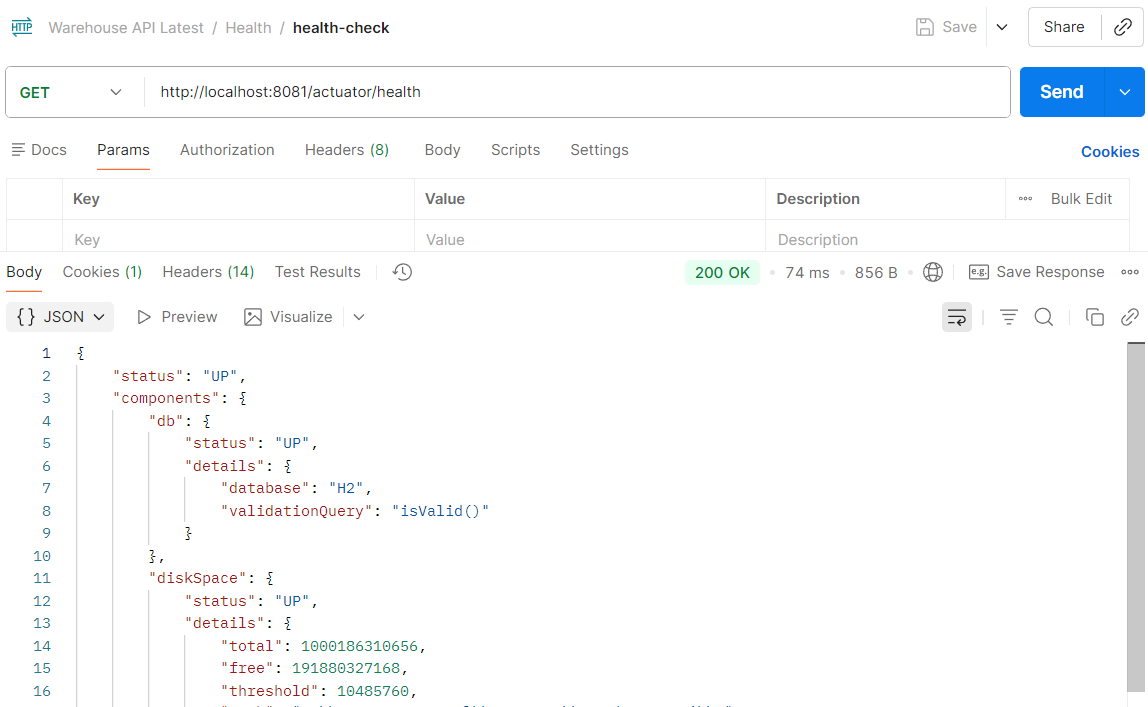
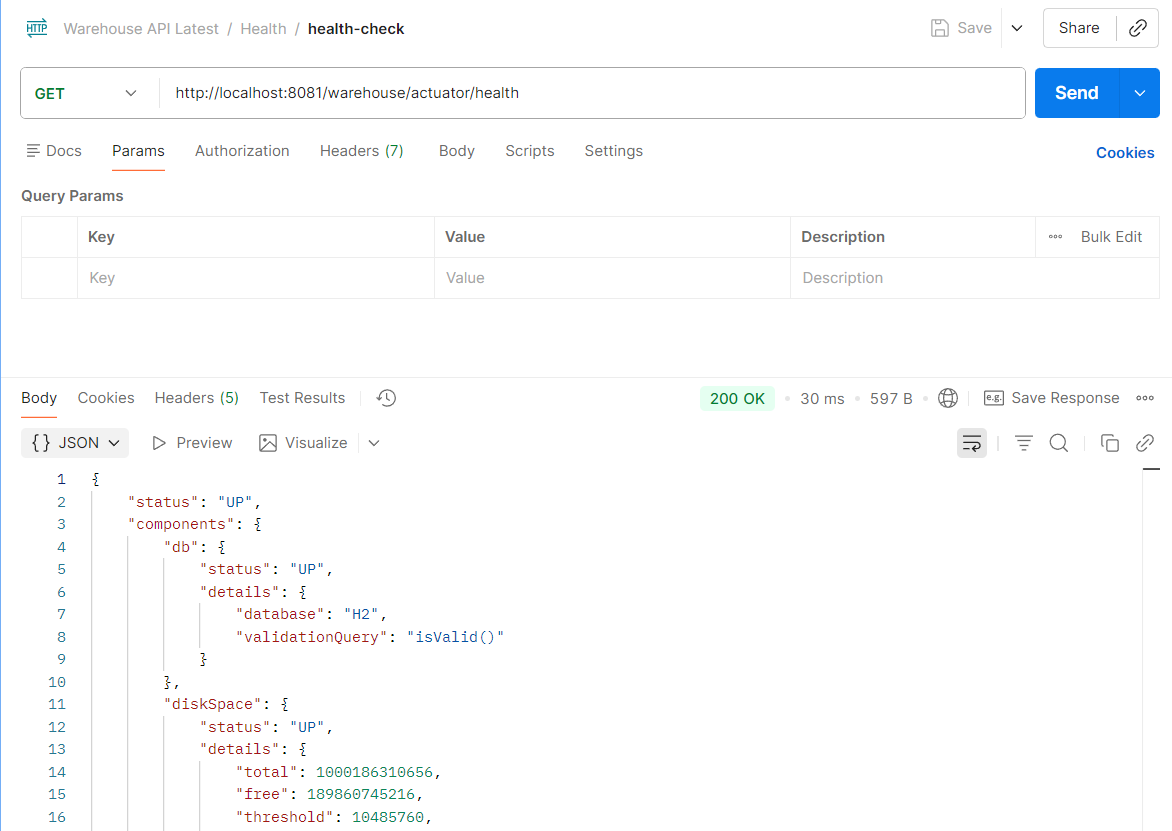
Add test output for Paid Sales Order, Updated Health Check path endpoint, Updated type comment for payment service

diff --git a/src/main/java/com/greateast/warehouse/service/PaymentService.java b/src/main/java/com/greateast/warehouse/service/PaymentService.java
@@ -37,7 +37,7 @@ public class PaymentService {
 
     /**
      * Sales payment from sales order.
-     * Check if sales data exist bu salesId then process payment and return salesResponse with transaction status SUCCESS (Paid)
+     * Check if sales data exist by salesId then process payment and return salesResponse with transaction status SUCCESS (Paid)
      * else return sales data not found
      * Throwable any exceptions.
      */
